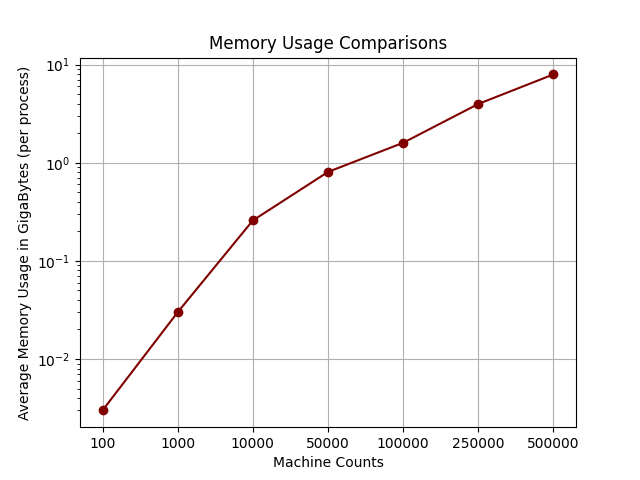
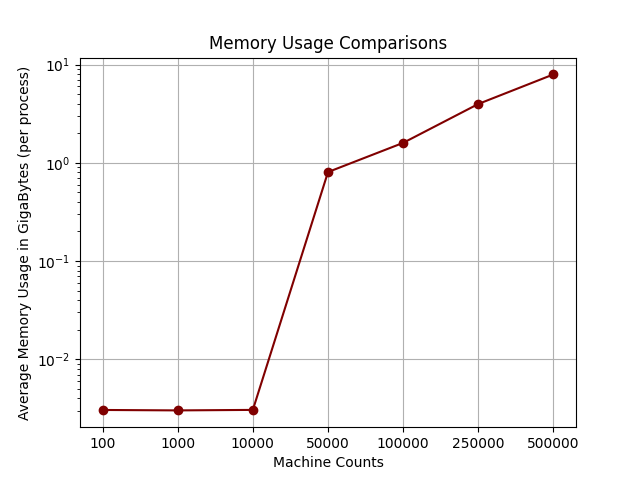
fixed issue with printing the graphs. Temp ones to be fixed later

diff --git a/sim/benchmarking/benchmarking.py b/sim/benchmarking/benchmarking.py
@@ -16,7 +16,7 @@ def run_sim(file_name, interations):
     with open(data_directory + raw_file_name + ".json", "w") as outfile:
         outfile.write(testing_str)
     # We need to do something with the json returned -- TODO
-    benchmark_results.get_resources_plot().savefig(image_folder + raw_file_name)
+    # benchmark_results.get_resources_plot().savefig(image_folder + raw_file_name)
 # TODO: remove scientific notation
 def mem_comparison_graphs():
     yAxis = []
@@ -27,7 +27,6 @@ def mem_comparison_graphs():
         f = open(data_directory + file_name, 'r')
         dictionary = json.loads(f.read())
         mem = float(dictionary['memory']['max_perprocess']['mean']) / float(1000000000)
-        print(mem)
         yAxis.append(mem)
         xAxis.append(file_name[file_name.index('-')+1 : -5])
     # disabling the offset on y axis
@@ -63,8 +62,9 @@ def execution_time_comparison_graphs():
     plt.close()
 # TODO: Running manually without the bash script seems to be broken
 if __name__ == '__main__':
+    # print(sys.argv[1:])
     for file_name in sys.argv[1:]:
-        run_sim(file_name, count)
+        print(file_name)
     mem_comparison_graphs()
     execution_time_comparison_graphs()
 
